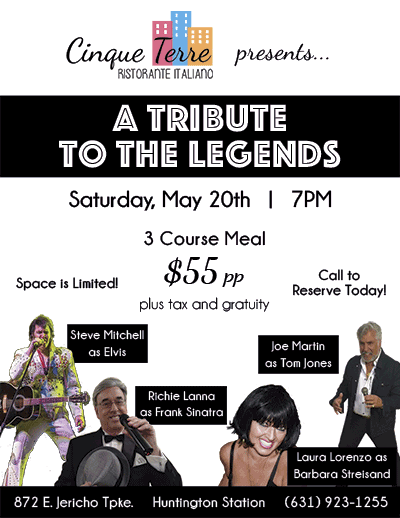
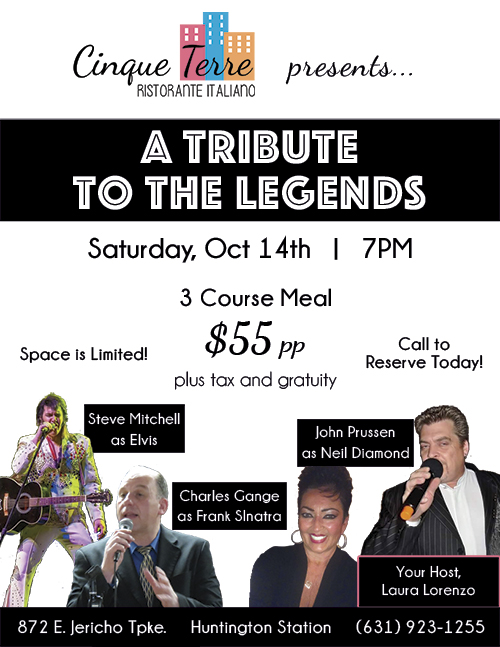
weee

diff --git a/upcoming-events.html b/upcoming-events.html
@@ -40,10 +40,10 @@ permalink: "upcoming-events.html"
 
 <div class="event-entry">
 	<div class="event-date">
-	SAT, AUG 19<br />
+	SAT, OCT 14<br />
 	</div>
 	<div class="event">
-	<img class="event-flyer" src="/images/uppercutFlyer.gif" id="uppercut">
+	<img class="event-flyer" src="/images/legendsflyer.png" id="legends">
 	</div>
 </div>
 
